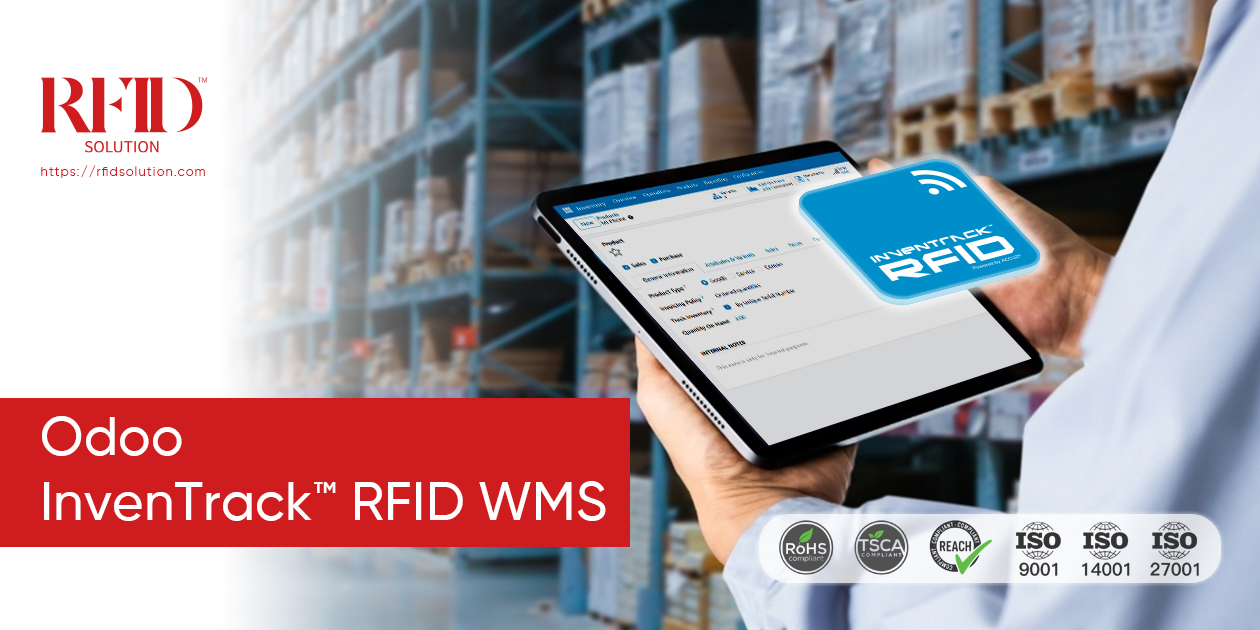
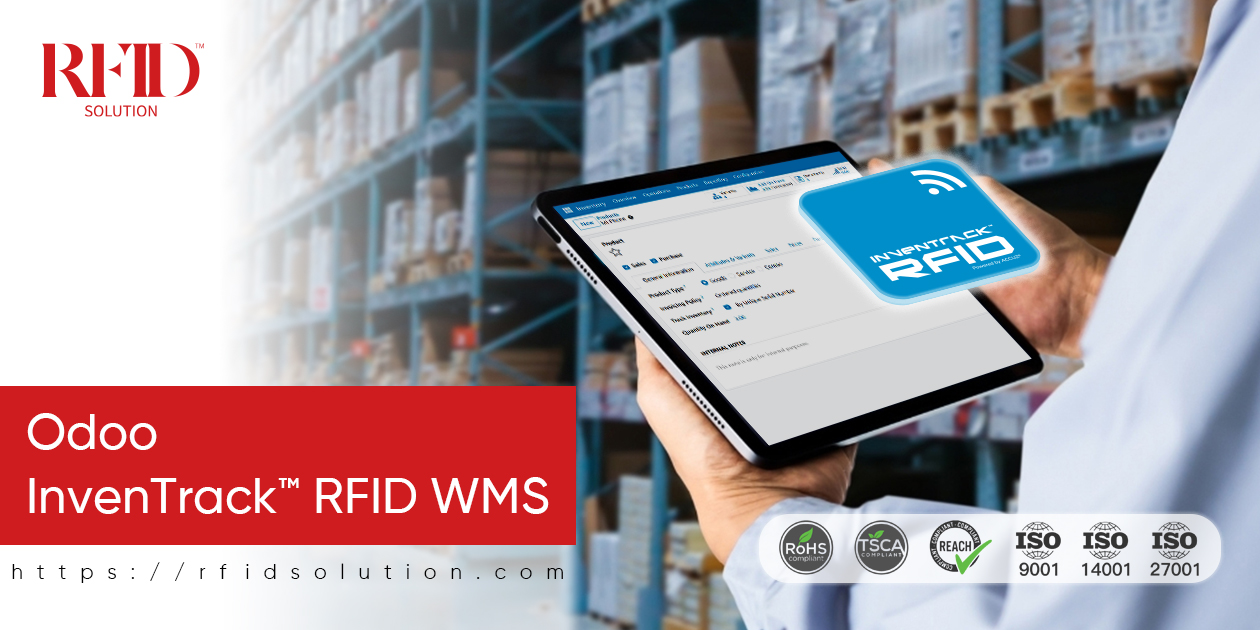
change main.png and website url

diff --git a/rfid_wms/__manifest__.py b/rfid_wms/__manifest__.py
@@ -10,7 +10,7 @@
         5.Internal Transfer
     """,
     'author': "ACCUZ Industries",
-    'website': 'https://rfidsolution.com',
+    'website': 'https://rfidsolution.com/odoo-inventrack-rfid-wms/',
     'license': 'LGPL-3',
     'category': 'Internet of Things (IoT)',
     'images': ['static/description/main.png'],
